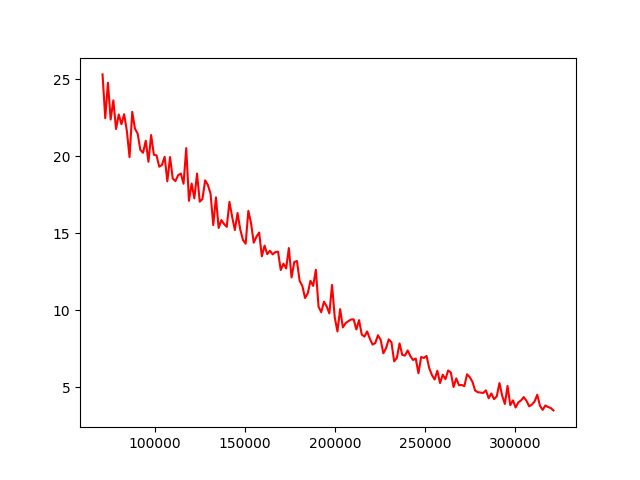
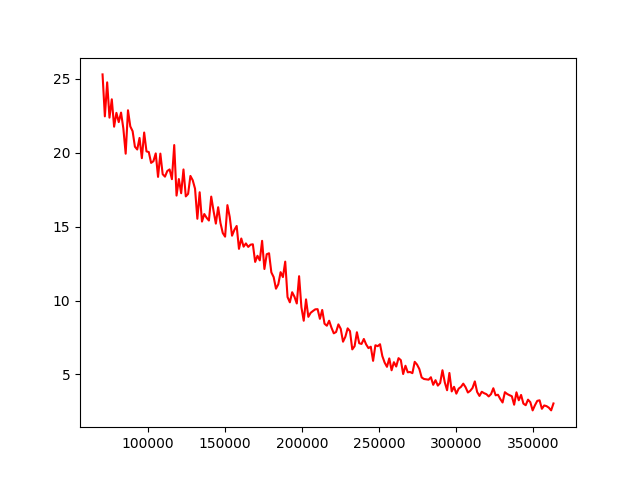
update image

diff --git a/README.md b/README.md
@@ -41,6 +41,7 @@ the ckpt weights file wound exits in the 'yolo_weights' folder<br/>
 <br/>
 你将会看到这样的画面,完美</br>
 you'll see ..., perfect</br>
+
 ![image](https://github.com/rrddcc/YOLOv4_tensorflow/blob/master/coco_save/dog.jpg)
 </br>
 weights_name.txt 文件中存放的是图模型的卷积层和bn的名字<br/>
@@ -66,8 +67,8 @@ put test images into voc_test_pic folder, and run the following command after th
 python val_voc.py
 ```
 </br>
-训练一天(321999步)的结果(input_size:416*416, batch_size:2, lr:2e-4, optimizer:momentum)，还不错</br>
-it's the result of our code training(input_size:416*416, batch_size:2, lr:2e-4, optimizer:momentum) for a day(321999 steps), not bad</br>
+训练一天(364999步)的结果(input_size:416*416, batch_size:2, lr:2e-4, optimizer:momentum)，还不错</br>
+it's the result of our code training(input_size:416*416, batch_size:2, lr:2e-4, optimizer:momentum) for a day(364999 steps), not bad</br>
 </br>
 
 ![image](https://github.com/rrddcc/YOLOv4_tensorflow/blob/master/voc_save/000302.jpg)</br>
@@ -126,6 +127,7 @@ python val.py
 <br/>
 这是我用123张图片训练了 5000 步(25分钟)的结果，效果还不错<br/>
 this image is the result of training 5000 steps (25 minutes) with 123 pictures, it looks not bad. <br/>
+
 ![image](https://github.com/rrddcc/YOLOv4_tensorflow/blob/master/save/62.jpg)
 
 ### 有关 config.py 和训练的提示
